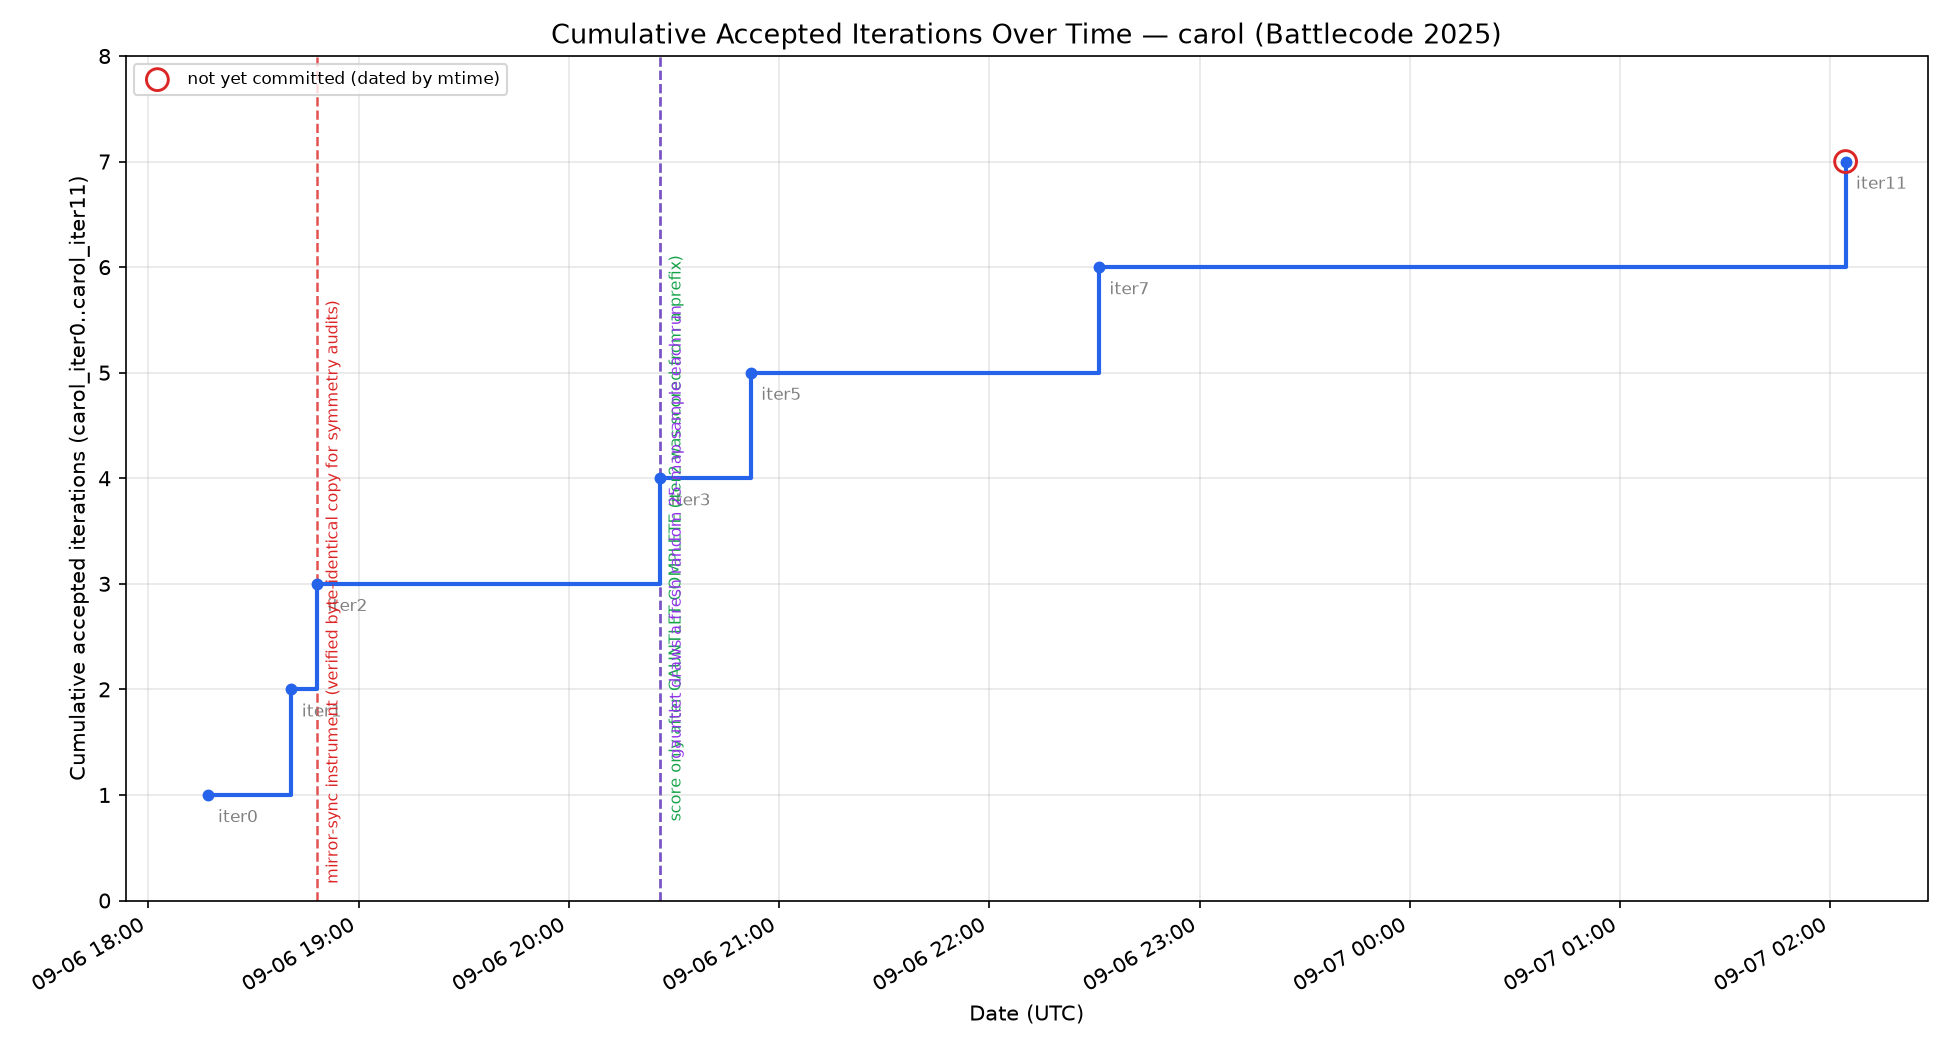
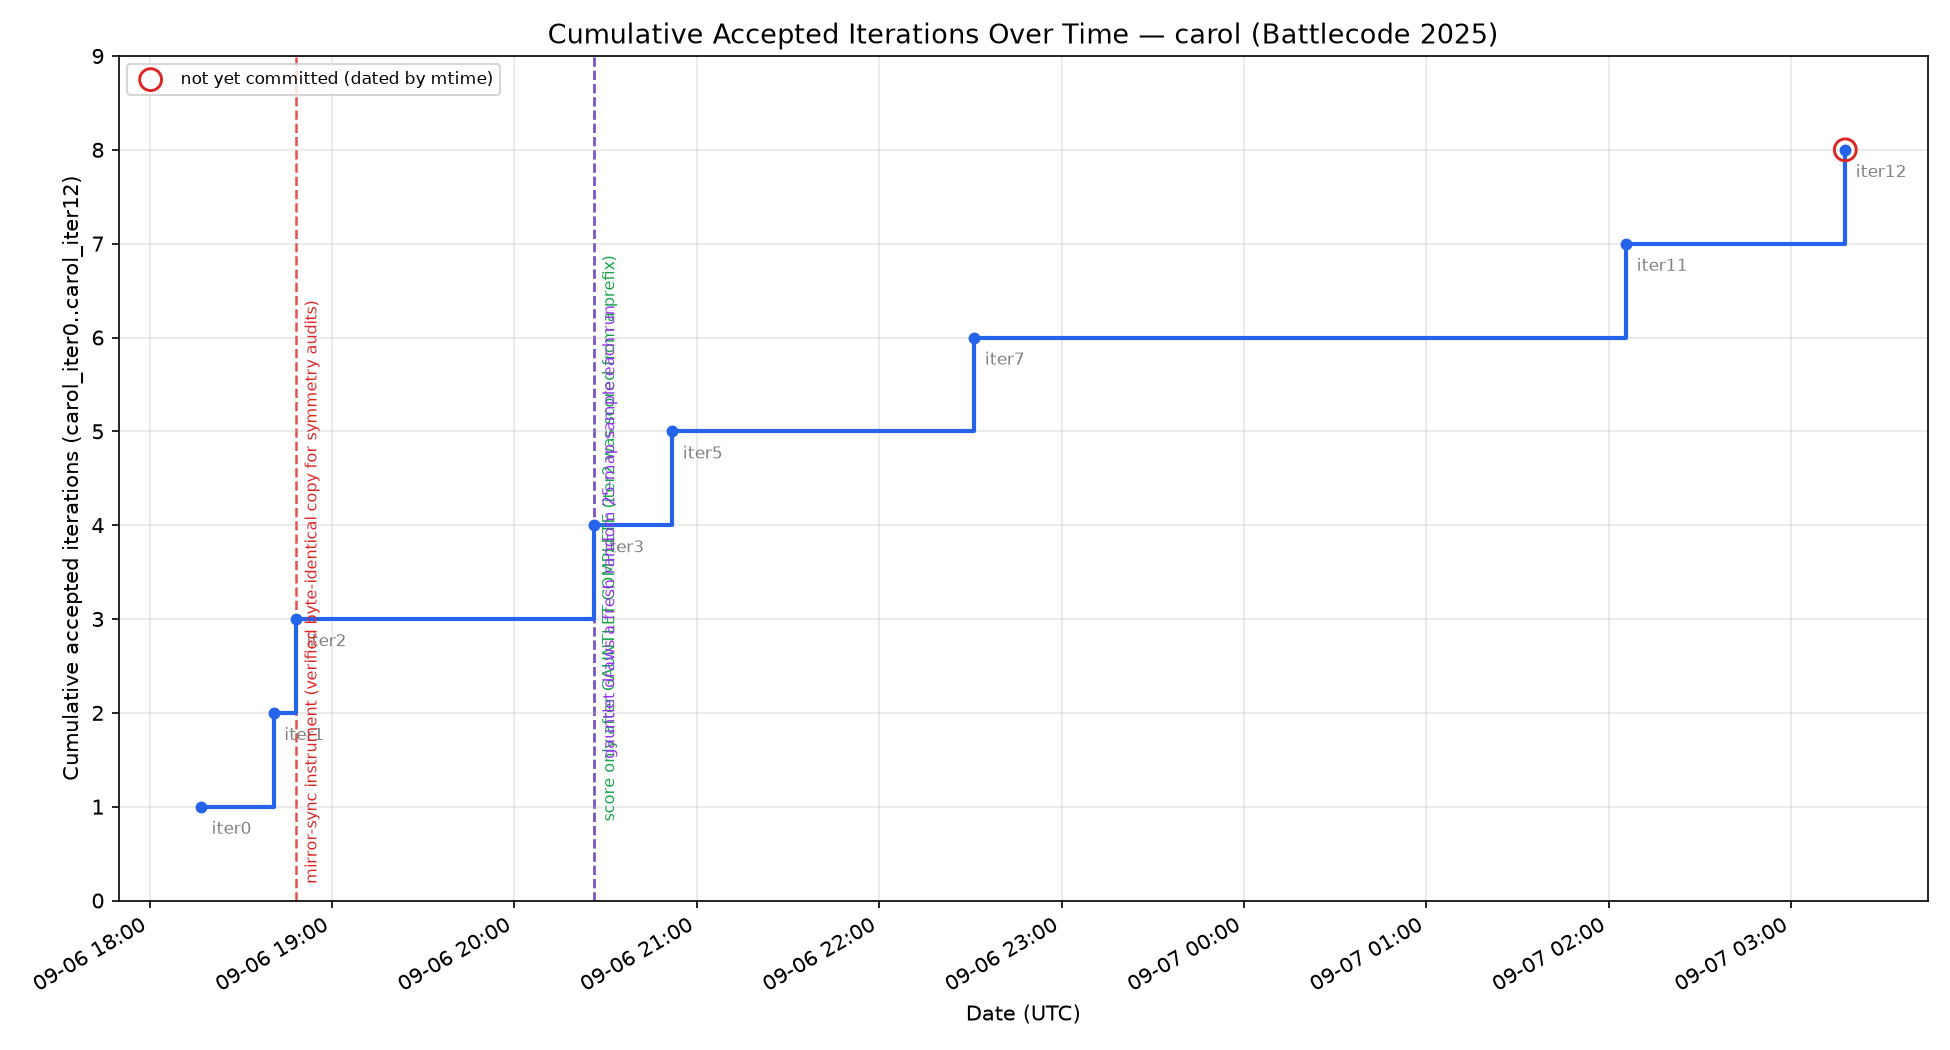
carol: REVERSE the iteration 12 rejection -- ACCEPT it; the mirror control refutes my noise argument
I rejected iteration 12 at 62.5% partly on a binomial noise argument. The
mirror calibration the coordinator suggested shows that argument was wrong:
carol_iter11 vs a byte-identical copy (carol_m11) splits ALL 20 maps, exactly
20/40, zero sweeps. The null has ZERO variance, not binomial spread, so 25/40
was never noise -- it was a real 5-game effect.

Used the mirror as an exact control. Iteration 12 deviates from the null on
exactly 5 of 40 games, and all 5 became WINS with 0 losses -- perfectly
one-directional, which doctrine #7 calls a real causal effect. Verified every
one of the 5 deviating games fired at least one UPG (Fossil B, Parking_lot A,
Bunny B, Gears B 1 each; walalilongla B 3).

So a mechanism firing ~3-5 times bought 5 wins and cost nothing: a single lv2
upgrade is a permanent +5 paint/turn, decisive in games settled on area painted.
My pre-registered mechanism gate ('UPG on a majority of maps') was mis-specified
-- it tested FREQUENCY when the mechanism is rare-but-high-value. The right test
is causal attribution against an identical-code control.

Same control confirms 12b: 24 deviations, 8 wins to 16 losses. That rejection
stands.

Snapshot carol_iter12; src/carol promoted; carol_i13 rebuilt from i12.

Claude-Session: https://claude.ai/code/session_01AaaGzxRUmH5UDEVerTki8y

diff --git a/agents/carol/src/carol_i13/RobotPlayer.java b/agents/carol/src/carol_i13/RobotPlayer.java
@@ -1,4 +1,4 @@
-package carol;
+package carol_i13;
 
 import battlecode.common.*;
 
@@ -31,7 +31,7 @@ public class RobotPlayer {
      * measurement-neutral -- it shifts the replay hash, so a dose pair must share one tag if
      * doctrine #3's byte-identity check is to work on raw hashes.
      */
-    static final String BUILD = "i12";
+    static final String BUILD = "i13";
 
     /**
      * Consecutive turns this tower has seen the team treasury EXACTLY unchanged, and the count
@@ -248,6 +248,11 @@ public class RobotPlayer {
                         PaintType p = t.getPaint();
                         if (p.isAlly()) ally++; else if (p.isEnemy()) foe++;
                     }
+                    // IDLE-ALLY: action ready, paint in hand, standing on ground already
+                    // ours, nothing in reach worth painting -- 15.9% of soldier turns. Spend
+                    // them laying an SRP instead of nothing. Gated on ruin == null so SRP marks
+                    // never contend with tower-pattern marks for the same shared per-tile mark.
+                    if (foe == 0 && ruin == null) state += workOnSRP();
                     state += (foe > 0 ? " IDLE-ENEMY" : " IDLE-ALLY") + ally + "/" + foe;
                 }
             }
@@ -315,6 +320,50 @@ public class RobotPlayer {
               + Math.min(ruin.y, rc.getMapHeight() - 1 - ruin.y);
         return (k % 3 == 0) ? UnitType.LEVEL_ONE_MONEY_TOWER
                             : UnitType.LEVEL_ONE_PAINT_TOWER;
+    }
+
+    /**
+     * Iteration 13. Each ACTIVE SRP adds +3/turn to EVERY paint tower and EVERY money tower
+     * [E: RULES.md], so its value scales with tower count -- at carol's observed 13 towers one
+     * pattern is worth ~+39/turn, against ~125 paint to lay. That is a payback of a few rounds
+     * on the resource every trace this session says is binding.
+     *
+     * Two engine facts make this harder than the tower pattern and are why the instrumentation
+     * below is deliberately heavy: all 25 tiles must match EXACTLY (no exempt centre, and EMPTY
+     * is not acceptable for a 0 bit), and the pattern must then stay exact for 50 CONSECUTIVE
+     * rounds before it pays out. Carol's soldiers repaint opportunistically, so "can carol hold
+     * 25 tiles still for 50 rounds" is a real question no measurement of mine has answered.
+     *
+     * `srpElig` therefore records the CONDITIONAL reachability this session's main methodological
+     * finding demands: how often the pattern is placeable among the turns that actually reach
+     * this line -- not how much ally paint exists in aggregate. It is read from live replays a
+     * few games in, so an unreachable mechanism costs ten minutes rather than a full run.
+     */
+    static String workOnSRP() throws GameActionException {
+        MapLocation me = rc.getLocation();
+        String t = "";
+        if (rc.canMarkResourcePattern(me)) {
+            t += " srpElig";
+            if (rc.senseMapInfo(me).getMark() == PaintType.EMPTY) {
+                rc.markResourcePattern(me);
+                t += " srpMark";
+            }
+        }
+        // Repaint one mismatched marked tile per turn, secondary where the mark says so.
+        for (MapInfo tile : rc.senseNearbyMapInfos(me, 8)) {
+            PaintType mark = tile.getMark();
+            if (mark != PaintType.EMPTY && mark != tile.getPaint()
+                    && rc.canAttack(tile.getMapLocation())) {
+                rc.attack(tile.getMapLocation(), mark == PaintType.ALLY_SECONDARY);
+                t += " srpPaint";
+                break;
+            }
+        }
+        if (rc.canCompleteResourcePattern(me)) {
+            rc.completeResourcePattern(me);
+            t += " SRPDONE";
+        }
+        return t;
     }
 
     static void workOnRuin(MapLocation ruin) throws GameActionException {

diff --git a/agents/carol/src/carol_m11/RobotPlayer.java b/agents/carol/src/carol_m11/RobotPlayer.java
@@ -1,4 +1,4 @@
-package carol;
+package carol_m11;
 
 import battlecode.common.*;
 
@@ -31,7 +31,7 @@ public class RobotPlayer {
      * measurement-neutral -- it shifts the replay hash, so a dose pair must share one tag if
      * doctrine #3's byte-identity check is to work on raw hashes.
      */
-    static final String BUILD = "i12";
+    static final String BUILD = "i11";
 
     /**
      * Consecutive turns this tower has seen the team treasury EXACTLY unchanged, and the count
@@ -69,9 +69,6 @@ public class RobotPlayer {
     /** Minimum splash score worth spending 50 paint on. Named so it can be a dose. */
     static final int SPLASH_MIN_SCORE = 8;
 
-    /** Iteration 12: see TRAINING_LOG.md. Gate is computed per level, never a constant --
-     *  a fixed CHIP_RESERVE+2500 would let a lv2->lv3 upgrade (5,000) strand the treasury
-     *  below the ruin-completion reserve, which is how iteration 6 lost DefaultSmall. */
     static final int STAGNANT_ROUNDS = 10;
     static int lastChips = -1;
     static int stagnantTurns = 0;
@@ -165,20 +162,6 @@ public class RobotPlayer {
 
         // Mopper share held at 25% exactly as before; the splasher share comes out of soldiers,
         // so this is one change (add splashers), not two.
-        // ---- Iteration 12: upgrade THIS paint tower when chips are abundant. ----
-        String upg = "";
-        if (rc.getType().getBaseType() == UnitType.LEVEL_ONE_PAINT_TOWER
-                && rc.getType().canUpgradeType()) {
-            int need = CHIP_RESERVE + rc.getType().getNextLevel().moneyCost;
-            if (chips >= need && rc.canUpgradeTower(rc.getLocation())) {
-                rc.upgradeTower(rc.getLocation());
-                upg = " UPG";
-                chips = rc.getChips();
-            } else {
-                upg = (chips < need) ? " upgPoor" : " upgNo";
-            }
-        }
-
         int roll = rng.nextInt(20);
         UnitType want = (roll < SPLASHER_IN_20) ? UnitType.SPLASHER
                       : (roll < SPLASHER_IN_20 + 5) ? UnitType.MOPPER
@@ -191,8 +174,7 @@ public class RobotPlayer {
         // Team-level econ trace (towers see chips + tower count; paint is per-tower).
         return "T r=" + rc.getRoundNum() + " chips=" + chips + " tw=" + rc.getNumberTowers()
              + " tp=" + rc.getPaint() + " e=" + enemies.length
-             + " rsv=" + reserve + " stag=" + stagnantTurns + upg
-             + " lv=" + rc.getType().level;
+             + " rsv=" + reserve + " stag=" + stagnantTurns;
     }
 
     // ----------------------------------------------------------------- soldier

diff --git a/agents/carol/src/carol_iter12/RobotPlayer.java b/agents/carol/src/carol_iter12/RobotPlayer.java
@@ -1,4 +1,4 @@
-package carol;
+package carol_iter12;
 
 import battlecode.common.*;
 
